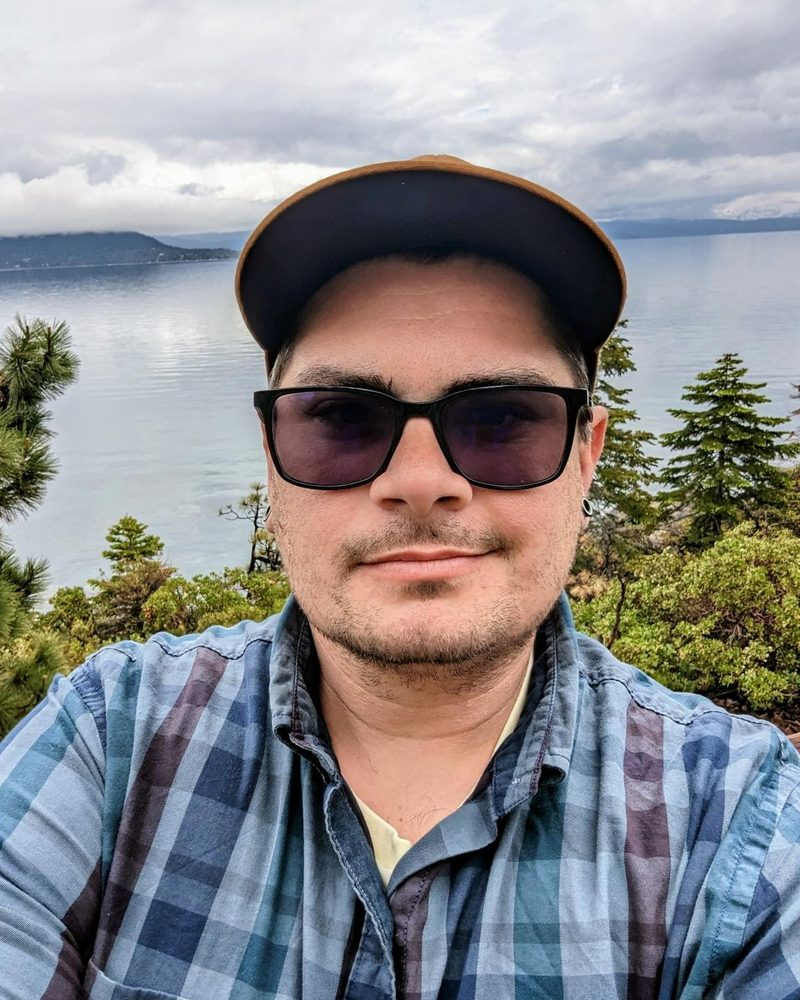
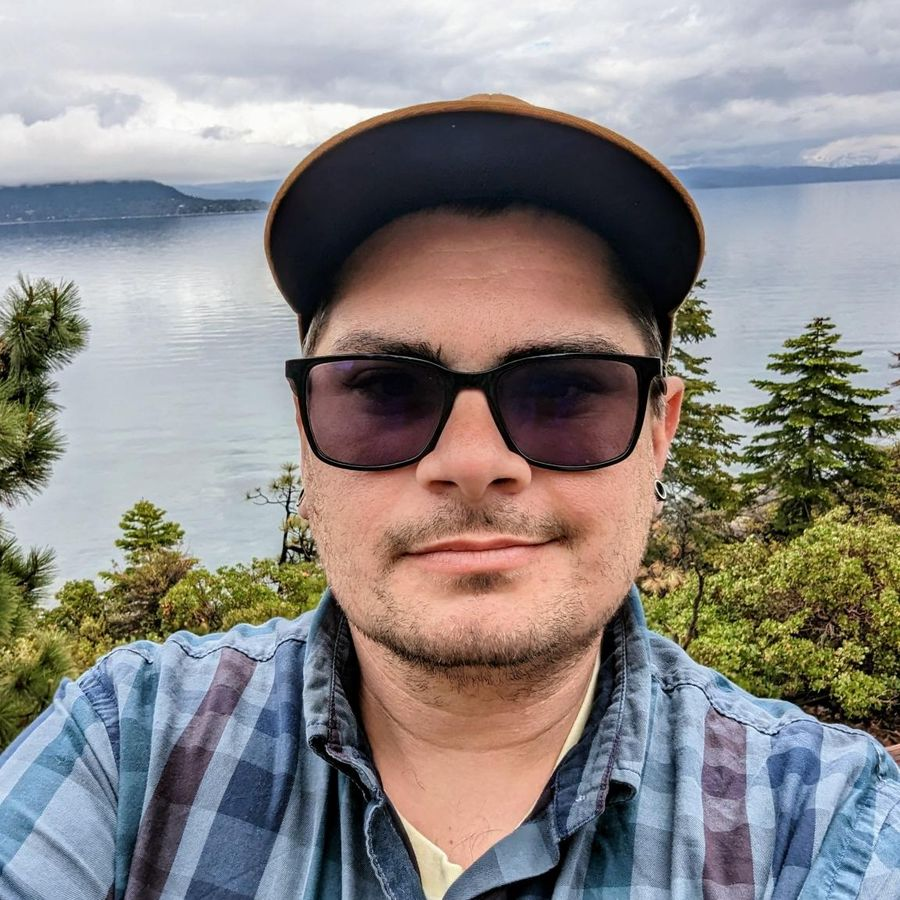
Add community photo gallery
Claude-Session: https://claude.ai/code/session_01K1c29HQm88n3qfBgfj8GT1

diff --git a/index.html b/index.html
@@ -133,9 +133,23 @@ img{max-width:100%;display:block}
 </section>
 
 <section aria-label="Photos" style="padding: 80px 24px">
-<div style="max-width: 900px; margin: 0 auto; display: grid; grid-template-columns: repeat(auto-fit, minmax(260px, 1fr)); gap: 20px">
-<img src="assets/event.jpg" alt="Mat Galvan at a community event" width="800" height="1000" style="width: 100%; height: auto; aspect-ratio: 4 / 5; object-fit: cover; border-radius: 12px">
-<img src="assets/sierra.jpg" alt="Mat Galvan above Lake Tahoe" width="800" height="1000" style="width: 100%; height: auto; aspect-ratio: 4 / 5; object-fit: cover; border-radius: 12px">
+<style>
+.gal{display:grid;grid-template-columns:repeat(3,minmax(0,1fr));gap:16px;grid-auto-rows:minmax(0,auto)}
+.gal img{aspect-ratio:1/1}
+.gal img.wide{grid-column:span 2;aspect-ratio:auto}
+@media (max-width:720px){.gal{grid-template-columns:repeat(2,minmax(0,1fr));grid-auto-flow:dense}.gal img.wide{grid-column:span 2;aspect-ratio:2/1}}
+</style>
+<div style="max-width: 1200px; margin: 0 auto; display: flex; flex-direction: column; gap: 24px">
+<div style="font-size: 14px; font-weight: 600; letter-spacing: 2px; color: #B4502C">IN THE COMMUNITY</div>
+<div class="gal">
+<img class="" src="assets/recognition.jpg" alt="Mat Galvan receiving a certificate of recognition from the Tuolumne County Board of Supervisors" width="900" height="900" loading="lazy" style="width: 100%; height: 100%; object-fit: cover; border-radius: 12px; display: block">
+<img class="" src="assets/insurance.jpg" alt="Mat Galvan with Jane Kim" width="900" height="900" loading="lazy" style="width: 100%; height: 100%; object-fit: cover; border-radius: 12px; display: block">
+<img class="" src="assets/event-sq.jpg" alt="Mat Galvan at a community event" width="800" height="800" loading="lazy" style="width: 100%; height: 100%; object-fit: cover; border-radius: 12px; display: block">
+<img class="wide" src="assets/jobs-first-team.jpg" alt="Mat Galvan with the California Jobs First Sierra Region team" width="1400" height="700" loading="lazy" style="width: 100%; height: 100%; object-fit: cover; border-radius: 12px; display: block">
+<img class="" src="assets/sierra.jpg" alt="Mat Galvan above Lake Tahoe" width="900" height="900" loading="lazy" style="width: 100%; height: 100%; object-fit: cover; border-radius: 12px; display: block">
+<img class="wide" src="assets/workshop.jpg" alt="Mat Galvan talking with attendees at a California Jobs First Sierra Region convening" width="1400" height="700" loading="lazy" style="width: 100%; height: 100%; object-fit: cover; border-radius: 12px; display: block">
+<img class="" src="assets/picnic.jpg" alt="Mat Galvan at a community picnic" width="900" height="900" loading="lazy" style="width: 100%; height: 100%; object-fit: cover; border-radius: 12px; display: block">
+</div>
 </div>
 </section>
 
